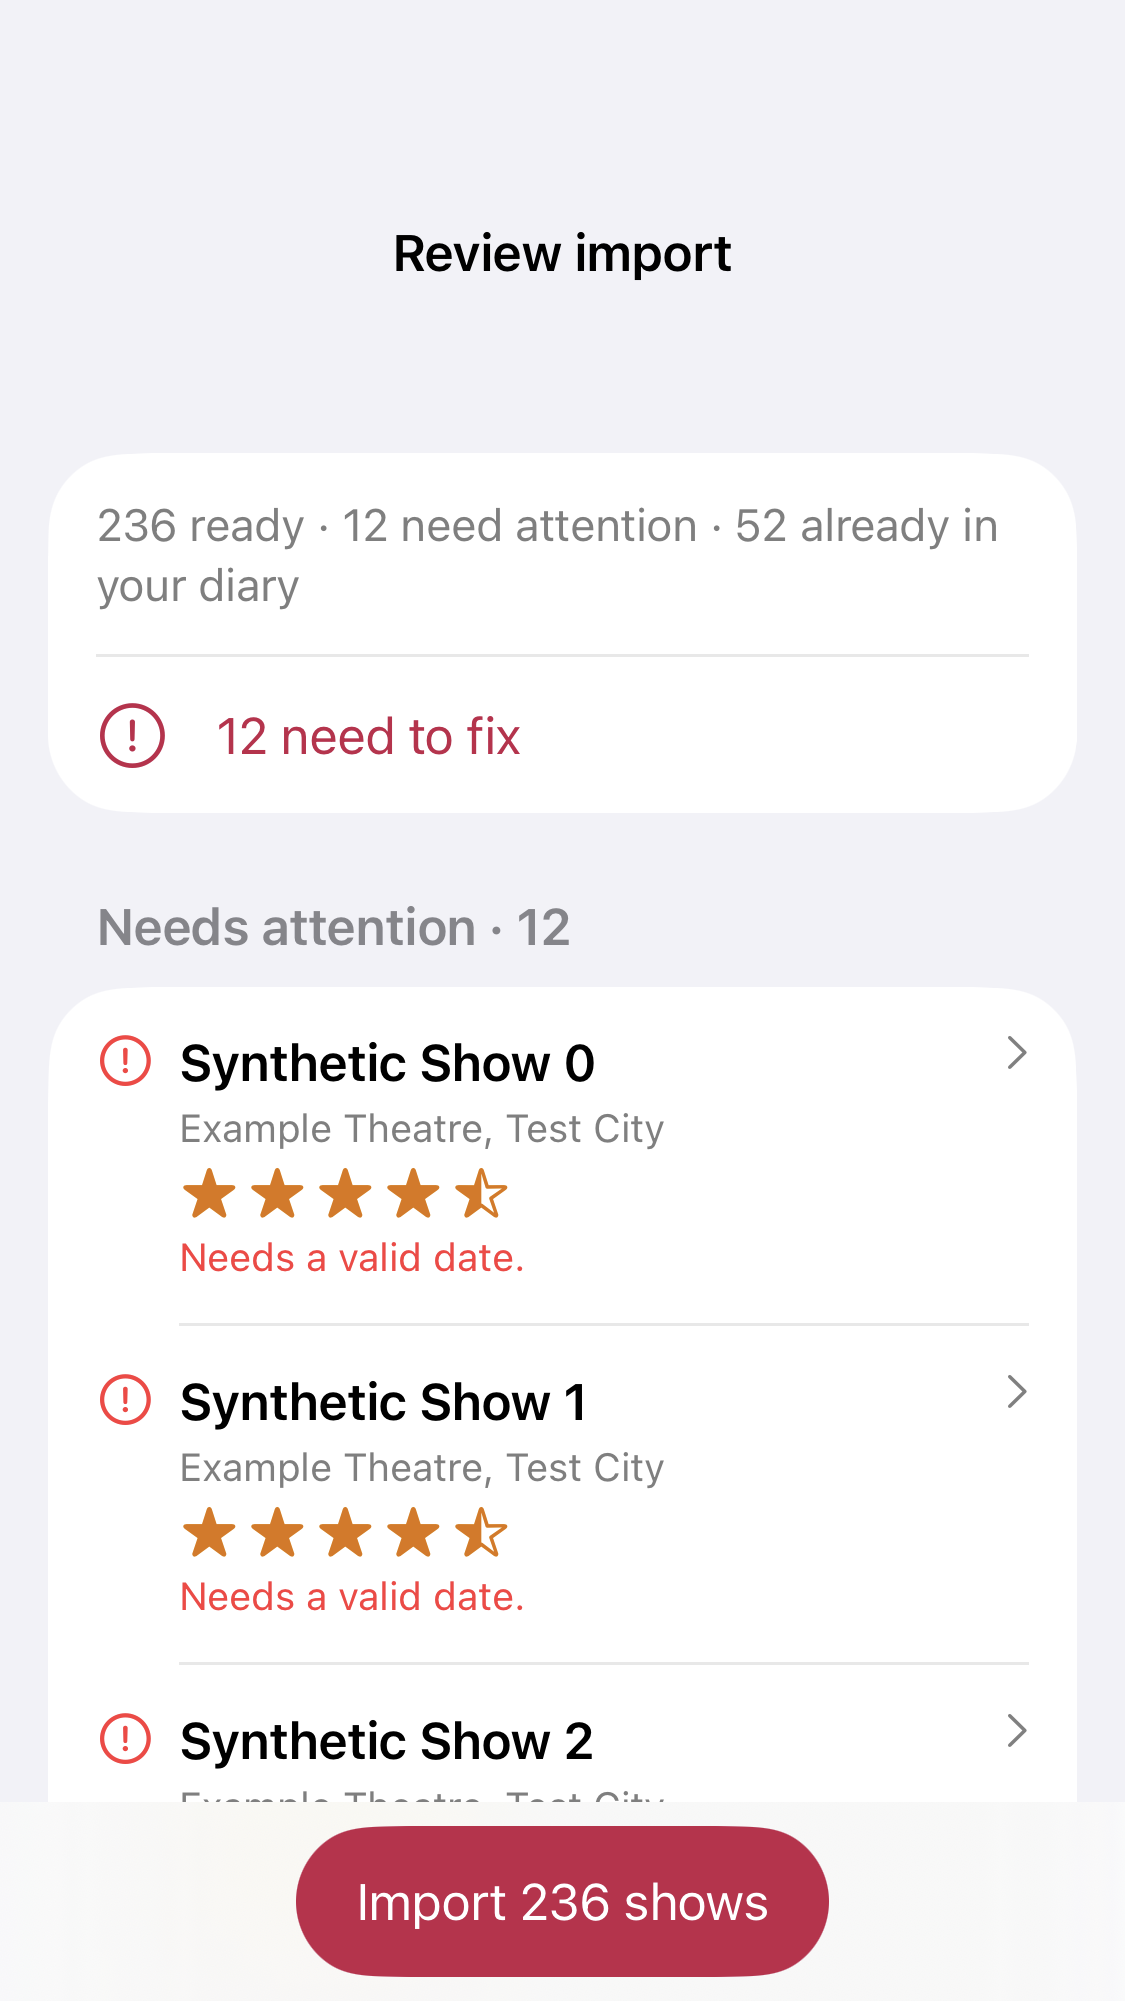
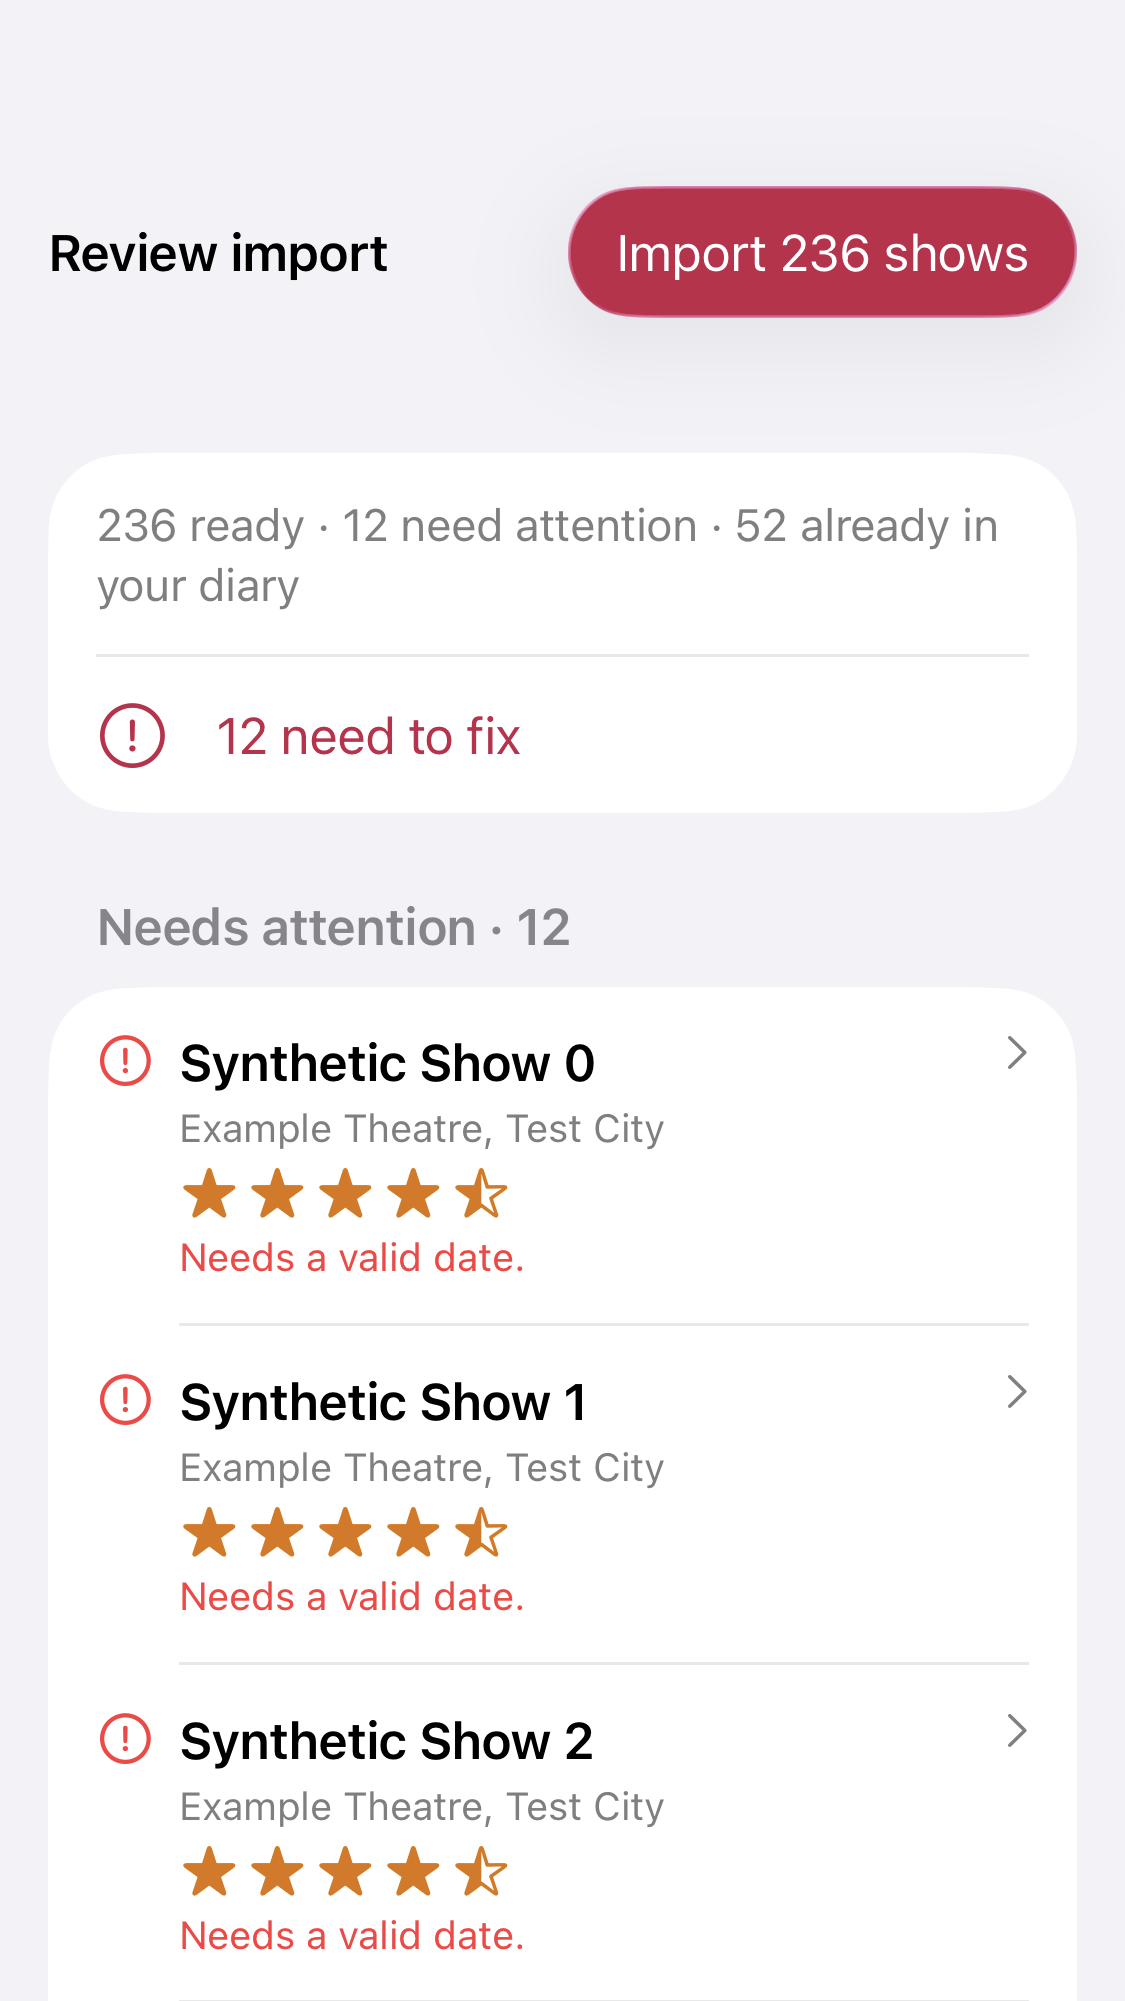
Use in-page import for short files and native navigation action for bulk

Changed region(s): [[0.0311, 0.093, 0.9644, 0.1859], [0.1556, 0.8986, 0.7467, 0.9915]]

diff --git a/apps/ios/Stubbed/Screens/Import/MezzanineReviewView.swift b/apps/ios/Stubbed/Screens/Import/MezzanineReviewView.swift
@@ -92,32 +92,27 @@ struct MezzanineReviewView: View {
             }
           }
         }
+        if !model.busy && (model.finished || (!model.rows.isEmpty && model.rows.count <= 10)) {
+          Section {
+            importAction
+              .frame(maxWidth: .infinity)
+              .controlSize(.large)
+          }
+          .listRowBackground(Color.clear)
+        }
       }
       .listStyle(.insetGrouped)
+      .tabBarClearance()
       .onChange(of: model.finished) { _, finished in
         if finished { proxy.scrollTo("summary", anchor: .top); summaryFocused = true }
       }
     }
     .navigationTitle("Review import")
     .navigationBarTitleDisplayMode(.inline)
-    .safeAreaInset(edge: .bottom) {
-      Group {
-        if model.busy {
-          Button(model.stopRequested ? "Stopping…" : "Stop", action: model.requestStop)
-            .buttonStyle(.bordered).disabled(model.stopRequested)
-        } else if model.finished {
-          Button("View diary") { router.finishImport(logged: model.added) }
-            .buttonStyle(.borderedProminent)
-        } else if !model.rows.isEmpty {
-          Button("Import \(model.selected) \(model.selected == 1 ? "show" : "shows")", action: save)
-            .buttonStyle(.borderedProminent).disabled(model.selected == 0)
-        }
+    .toolbar {
+      if model.busy || (!model.finished && model.rows.count > 10) {
+        ToolbarItem(placement: .topBarTrailing) { importAction }
       }
-      .controlSize(.large)
-      .frame(maxWidth: .infinity)
-      .padding(.horizontal)
-      .padding(.vertical, 8)
-      .background(.bar)
     }
     .navigationBarBackButtonHidden(model.busy)
     .task {
@@ -136,6 +131,19 @@ struct MezzanineReviewView: View {
       if let city = countryCity {
         MezzanineCountrySheet(city: city) { code in model.applyCountry(code, city: city); countryCity = nil }
       }
+    }
+  }
+
+  @ViewBuilder private var importAction: some View {
+    if model.busy {
+      Button(model.stopRequested ? "Stopping…" : "Stop", action: model.requestStop)
+        .disabled(model.stopRequested)
+    } else if model.finished {
+      Button("View diary") { router.finishImport(logged: model.added) }
+        .buttonStyle(.borderedProminent)
+    } else {
+      Button("Import \(model.selected) \(model.selected == 1 ? "show" : "shows")", action: save)
+        .buttonStyle(.borderedProminent).disabled(model.selected == 0)
     }
   }
 

diff --git a/apps/ios/StubbedTests/MezzanineReviewSnapshotTests.swift b/apps/ios/StubbedTests/MezzanineReviewSnapshotTests.swift
@@ -53,6 +53,16 @@ final class MezzanineReviewSnapshotTests: XCTestCase {
     },
       name: "mezzanine-review-small", size: CGSize(width: 375, height: 667))
   }
+  func testTwoReadyShowsWithInlineImport() async throws {
+    let model = model()
+    model.rows = [model.rows[0], model.rows[2]]
+    for i in model.rows.indices { model.rows[i].duplicate = false; model.rows[i].selected = true }
+    try await capture(TabView {
+      NavigationStack { MezzanineReviewView(model: model, chooseAnother: {}) }.tabItem { Label("Home", systemImage: "house") }
+      Color.clear.tabItem { Label("Log", systemImage: "plus.circle") }
+      Color.clear.tabItem { Label("Profile", systemImage: "person") }
+    }, name: "mezzanine-inline-import", size: CGSize(width: 402, height: 874))
+  }
   func testReviewInDarkModeAtLargestType() async throws {
     try await capture(NavigationStack { MezzanineReviewView(model: model(), chooseAnother: {}) },
       name: "mezzanine-review-dark-accessibility", size: CGSize(width: 402, height: 874), dark: true, type: .accessibility5)

diff --git a/docs/DECISIONS.md b/docs/DECISIONS.md
@@ -1136,4 +1136,4 @@ migrations, live model calls or enabling of the switch were performed.
 
 ### 2026-11-06 — Import review owns the bottom toolbar
 
-Keep the native tab bar visible while reviewing Mezzanine imports. Place Import/Stop/View diary in a bottom safe-area inset above the tabs instead of a competing native bottom toolbar. Back and all tabs remain navigation exits. Remove the private-notes notice from review and export help at the owner’s request; the parser continues excluding private notes. Render the small-phone regression inside a TabView so captures include the real container interaction.
+Keep the native tab bar visible while reviewing Mezzanine imports. Place Import in the list for up to 10 shows, and in the native trailing navigation toolbar for larger files. Stop stays in the navigation toolbar during work; View diary is in the completed page. Avoid bottom inset materials that change the floating tab bar’s appearance. Back and all tabs remain navigation exits. Remove the private-notes notice from review and export help at the owner’s request; the parser continues excluding private notes. Render the small-phone regression inside a TabView so captures include the real container interaction.

diff --git a/docs/screenshots/import-toolbar/README.md b/docs/screenshots/import-toolbar/README.md
@@ -1,6 +1,10 @@
 # Import toolbar fix
 
-Actual iOS view renders from five passing MezzanineReviewSnapshotTests, 6 November 2026. The small-phone render is hosted inside a TabView to cover the reported native tab-bar overlap. Review keeps the tab bar visible and places its action in a bottom safe-area inset above the tabs. Private-note notices are removed; parser exclusion remains.
+Actual iOS view renders from five passing MezzanineReviewSnapshotTests, 6 November 2026. The small-phone render is hosted inside a TabView to cover the reported native tab-bar overlap. Review keeps the tab bar visible and places short-file actions in the page and long-file actions in the top navigation bar. Private-note notices are removed; parser exclusion remains.
 
 ![Small phone in tab navigation](ios-small-tab-navigation.png)
 ![Bulk review](ios-bulk.png)
+
+Six rendering tests pass, including the reported two-ready-show case. Short files (up to 10 rows) use an in-page action; larger files keep Import in the native trailing navigation toolbar. No bottom inset, material strip, or tab-bar appearance override.
+
+![Two-show in-page action with floating tabs](ios-inline-import.png)
